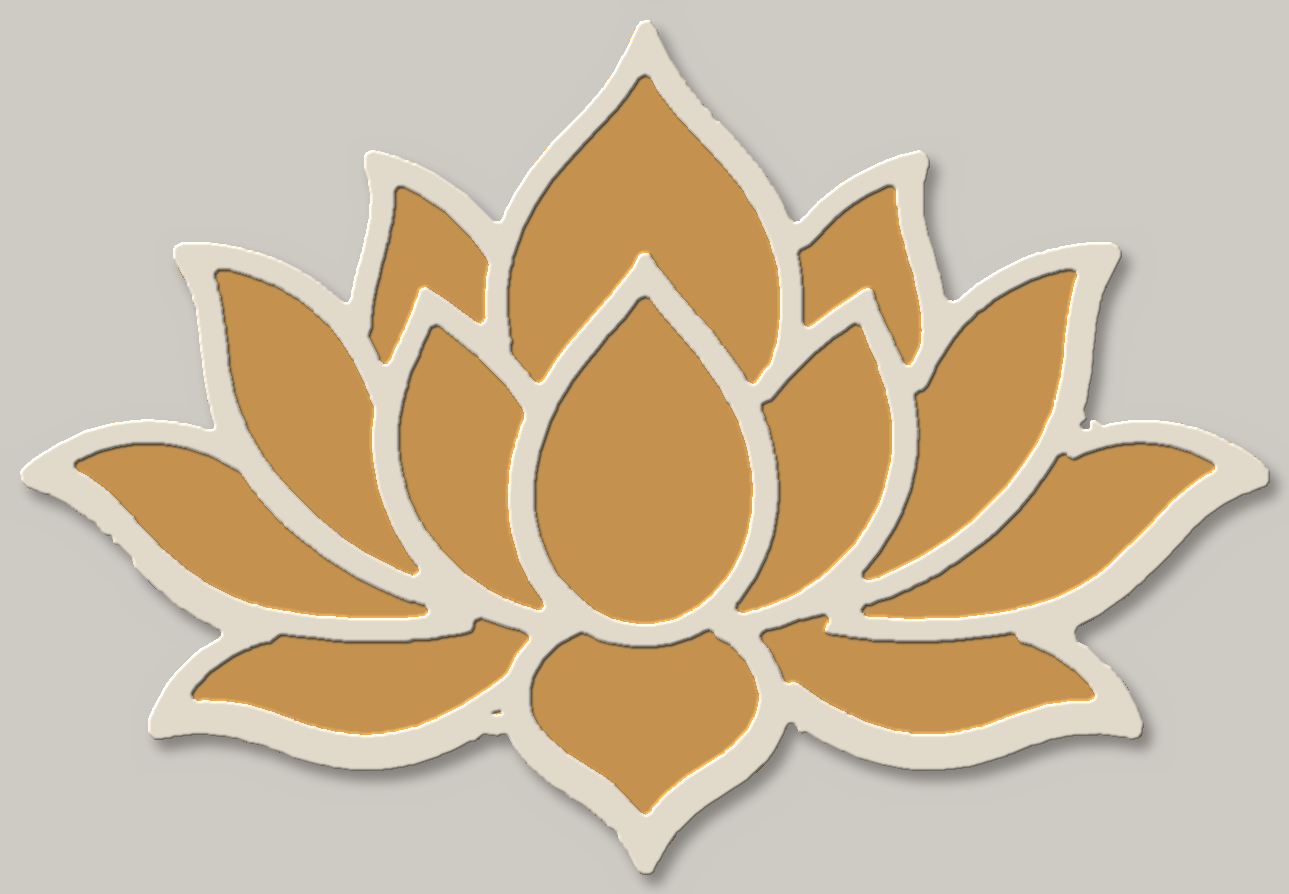
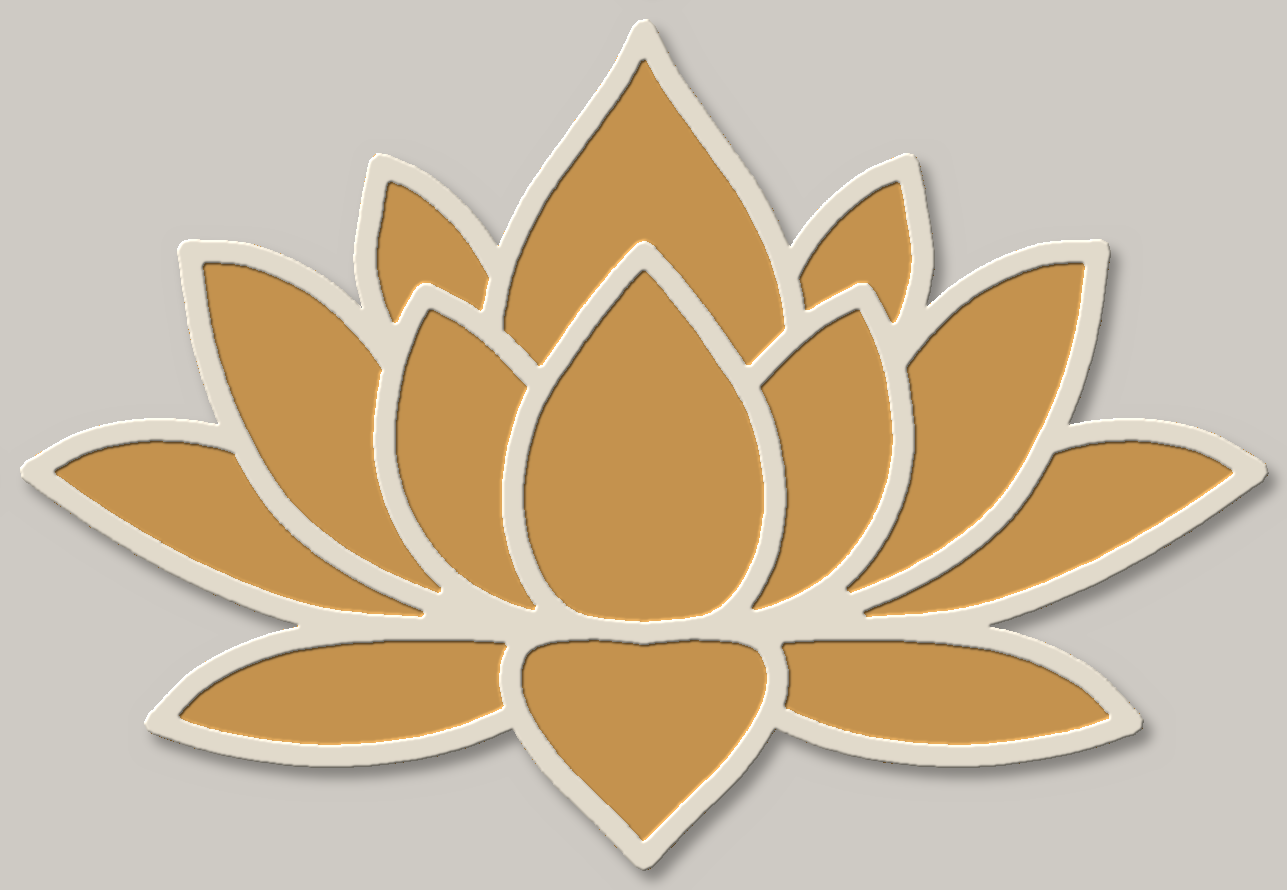
Redraw lotus rangoli board as clean vector petals (preview only)
Replace pixel tracing with smooth, mirrored petal curves layered
back-to-front, so borders are clean single walls that join neatly.
STL not regenerated yet, pending approval of the previews.

Claude-Session: https://claude.ai/code/session_01HQyouszACcJfNx7ugTWrWT

Changed region(s): [[0.0311, 0.0303, 0.9635, 0.9708], [0.5284, 0.1213, 0.5594, 0.1517]]

diff --git a/tools/lotus_rangoli_vector.py b/tools/lotus_rangoli_vector.py
@@ -1,0 +1,150 @@
+#!/usr/bin/env python3
+"""Solid lotus rangoli filling board, drawn as clean vector petals.
+
+Each petal is a smooth closed curve (mirrored left/right for perfect
+symmetry). Petals are stacked back-to-front: a petal's outline is hidden
+where a petal in front of it covers it, so borders meet in clean joins.
+The outlines become raised ridges on a solid, hole-free floor.
+
+Usage:
+  python3 tools/lotus_rangoli_vector.py OUT_DIR [--stl] [--overlay REF.png]
+Without --stl it only writes preview images (approve those first).
+Needs: pip install numpy pillow opencv-python-headless manifold3d matplotlib
+"""
+import sys
+from pathlib import Path
+
+import numpy as np
+from manifold3d import CrossSection, FillRule, JoinType, Manifold
+
+import lotus_rangoli_board as render   # preview + STL helpers
+
+# --- Parameters (mm) ---------------------------------------------------------
+WIDTH = 150.0          # overall width
+BASE_T = 2.2           # solid floor thickness
+RIDGE_H = 1.8          # ridge height above the floor
+RIDGE_W = 2.8          # border width
+
+# --- Petals, in reference-image pixels (x right, y down, centre x = 768) -----
+# Each petal: points along one side from base to tip, then the other side from
+# tip back to base. Sides are smoothed separately so tips stay pointed.
+CX = 768
+LEFT_PETALS = {
+    # name: (side_a base->tip, side_b tip->base)
+    "outer_low": ([(690, 700), (560, 700), (420, 688), (300, 645), (200, 590), (115, 532)],
+                  [(115, 532), (175, 500), (250, 488), (330, 500), (430, 545), (560, 620), (690, 700)]),
+    "rear_side": ([(640, 560), (560, 470), (500, 400), (472, 320), (478, 252), (487, 205)],
+                  [(487, 205), (535, 228), (585, 275), (622, 340), (650, 430), (660, 520), (640, 560)]),
+    "outer_up": ([(700, 702), (600, 690), (480, 645), (390, 580), (335, 495), (300, 400), (283, 297)],
+                 [(283, 297), (350, 303), (420, 335), (475, 385), (520, 450), (580, 560), (650, 650), (700, 702)]),
+    "inner": ([(735, 702), (640, 690), (565, 652), (515, 590), (492, 515), (498, 435), (515, 380), (535, 342)],
+              [(535, 342), (585, 370), (630, 410), (680, 470), (720, 560), (740, 650), (735, 702)]),
+    "low_side": ([(690, 712), (600, 702), (480, 702), (380, 715), (300, 750), (248, 800)],
+                 [(248, 800), (320, 822), (420, 835), (520, 828), (600, 805), (660, 770), (690, 712)]),
+}
+# Centre petals (symmetric about x = CX): left half only, base (on axis) -> tip (on axis).
+CENTER_PETALS = {
+    "rear_top": [(CX, 660), (680, 620), (626, 520), (606, 420), (614, 330), (648, 248), (700, 172), (742, 112), (CX, 62)],
+    "bottom": [(CX, 945), (725, 900), (670, 845), (632, 785), (628, 735), (660, 705), (CX, 698)],
+    "center": [(CX, 705), (690, 692), (645, 640), (628, 560), (645, 470), (690, 395), (735, 335), (CX, 298)],
+}
+# Back-to-front drawing order.
+ORDER = [("outer_low", "L"), ("outer_low", "R"), ("rear_side", "L"), ("rear_side", "R"),
+         ("rear_top", "C"), ("outer_up", "L"), ("outer_up", "R"), ("low_side", "L"),
+         ("low_side", "R"), ("inner", "L"), ("inner", "R"), ("bottom", "C"), ("center", "C")]
+
+
+def catmull_rom(pts, n=24):
+    """Smooth open curve through pts (endpoints kept)."""
+    p = np.asarray(pts, float)
+    p = np.vstack([2 * p[0] - p[1], p, 2 * p[-1] - p[-2]])
+    out = []
+    for i in range(1, len(p) - 2):
+        p0, p1, p2, p3 = p[i - 1], p[i], p[i + 1], p[i + 2]
+        for t in np.linspace(0, 1, n, endpoint=False):
+            t2, t3 = t * t, t * t * t
+            out.append(0.5 * ((2 * p1) + (-p0 + p2) * t + (2 * p0 - 5 * p1 + 4 * p2 - p3) * t2
+                              + (-p0 + 3 * p1 - 3 * p2 + p3) * t3))
+    out.append(p[-2])
+    return np.array(out)
+
+
+def petal_outline(name, side):
+    if side == "C":
+        half = catmull_rom(CENTER_PETALS[name])           # base -> tip, left half
+        right = half[::-1].copy()
+        right[:, 0] = 2 * CX - right[:, 0]                # tip -> base, right half
+        loop = np.vstack([half, right[1:-1]])
+    else:
+        a, b = LEFT_PETALS[name]
+        loop = np.vstack([catmull_rom(a), catmull_rom(b)[1:-1]])
+        if side == "R":
+            loop = loop[::-1].copy()
+            loop[:, 0] = 2 * CX - loop[:, 0]
+    return loop
+
+
+def to_mm(loop, s):
+    return [((x - CX) * s, -y * s) for x, y in loop]
+
+
+def build():
+    loops = [petal_outline(n, sd) for n, sd in ORDER]
+    allx = np.concatenate([l[:, 0] for l in loops])
+    s = WIDTH / (allx.max() - allx.min() + RIDGE_W / (WIDTH / 1430))   # include stroke width
+    petals = [CrossSection([to_mm(l, s)], FillRule.NonZero) for l in loops]
+    petals = [p if p.area() > 0 else CrossSection([to_mm(l[::-1], s)], FillRule.NonZero)
+              for p, l in zip(petals, loops)]
+
+    hw = RIDGE_W / 2
+    rnd = JoinType.Round
+    ridge = CrossSection()
+    for i, p in enumerate(petals):
+        band = p.offset(hw, rnd) - p.offset(-hw, rnd)
+        front = CrossSection()
+        for q in petals[i + 1:]:
+            front += q.offset(-hw, rnd)
+        ridge += band - front
+
+    base = CrossSection()
+    for p in petals:
+        base += p.offset(hw, rnd)
+    # Keep only outer boundaries: fill any pocket enclosed between petals.
+    outers = [poly for poly in base.to_polygons()
+              if CrossSection([poly], FillRule.NonZero).area() > 0]
+    base = CrossSection(outers, FillRule.NonZero)
+    # Smooth hairline nicks where outlines touch at a tangent.
+    ridge = ridge.offset(0.3, rnd).offset(-0.3, rnd) ^ base
+
+    model = Manifold.extrude(base, BASE_T)
+    model += Manifold.extrude(ridge, RIDGE_H + 0.3).translate((0, 0, BASE_T - 0.3))
+    model = model.simplify(0.01)
+    bb = model.bounding_box()
+    model = model.translate((-(bb[0] + bb[3]) / 2, -(bb[1] + bb[4]) / 2, -bb[2]))
+    return model, loops
+
+
+def overlay(loops, ref, path):
+    import cv2
+    im = cv2.imread(ref)
+    for l in loops:
+        cv2.polylines(im, [np.round(l).astype(np.int32)], True, (0, 0, 255), 2, cv2.LINE_AA)
+    cv2.imwrite(path, im)
+
+
+if __name__ == "__main__":
+    out = Path(sys.argv[1])
+    out.mkdir(parents=True, exist_ok=True)
+    render.BASE_T, render.RIDGE_H = BASE_T, RIDGE_H
+    model, loops = build()
+    bb = model.bounding_box()
+    print(f"size {bb[3]-bb[0]:.1f} x {bb[4]-bb[1]:.1f} x {bb[5]-bb[2]:.1f} mm, "
+          f"volume {model.volume()/1000:.1f} cm^3 (~{model.volume()/1000*1.24:.0f} g PLA at 100% infill), "
+          f"genus {model.genus()}, parts {len(model.decompose())}")
+    if "--overlay" in sys.argv:
+        overlay(loops, sys.argv[sys.argv.index("--overlay") + 1], str(out / "overlay_check.png"))
+    render.heightmap_preview(model, out / "lotus_rangoli_preview_top.png")
+    render.angled_preview(model, out / "lotus_rangoli_preview_angle.png")
+    if "--stl" in sys.argv:
+        render.write_stl(model, out / "lotus_rangoli_board.stl")
+        print("wrote", out / "lotus_rangoli_board.stl")
